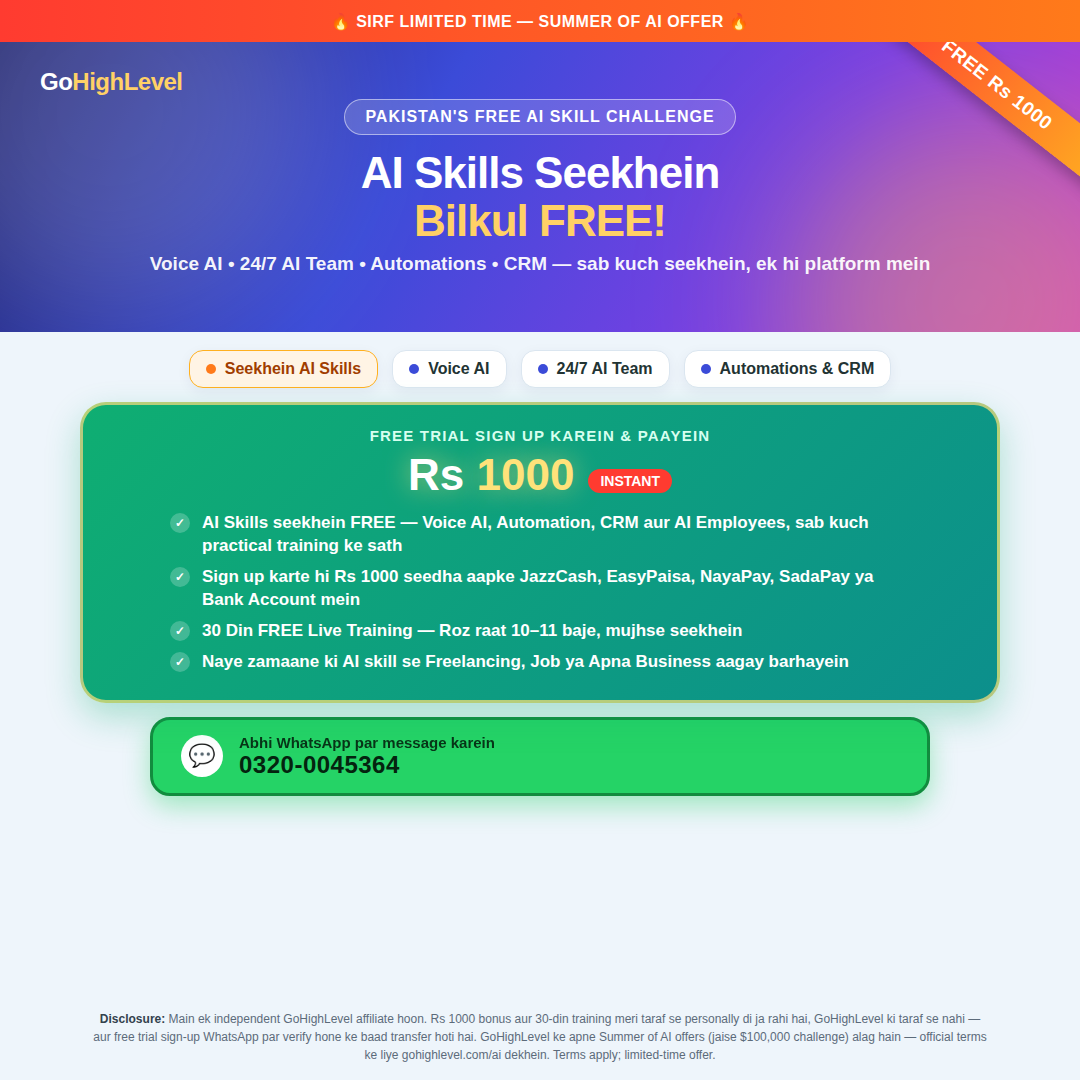
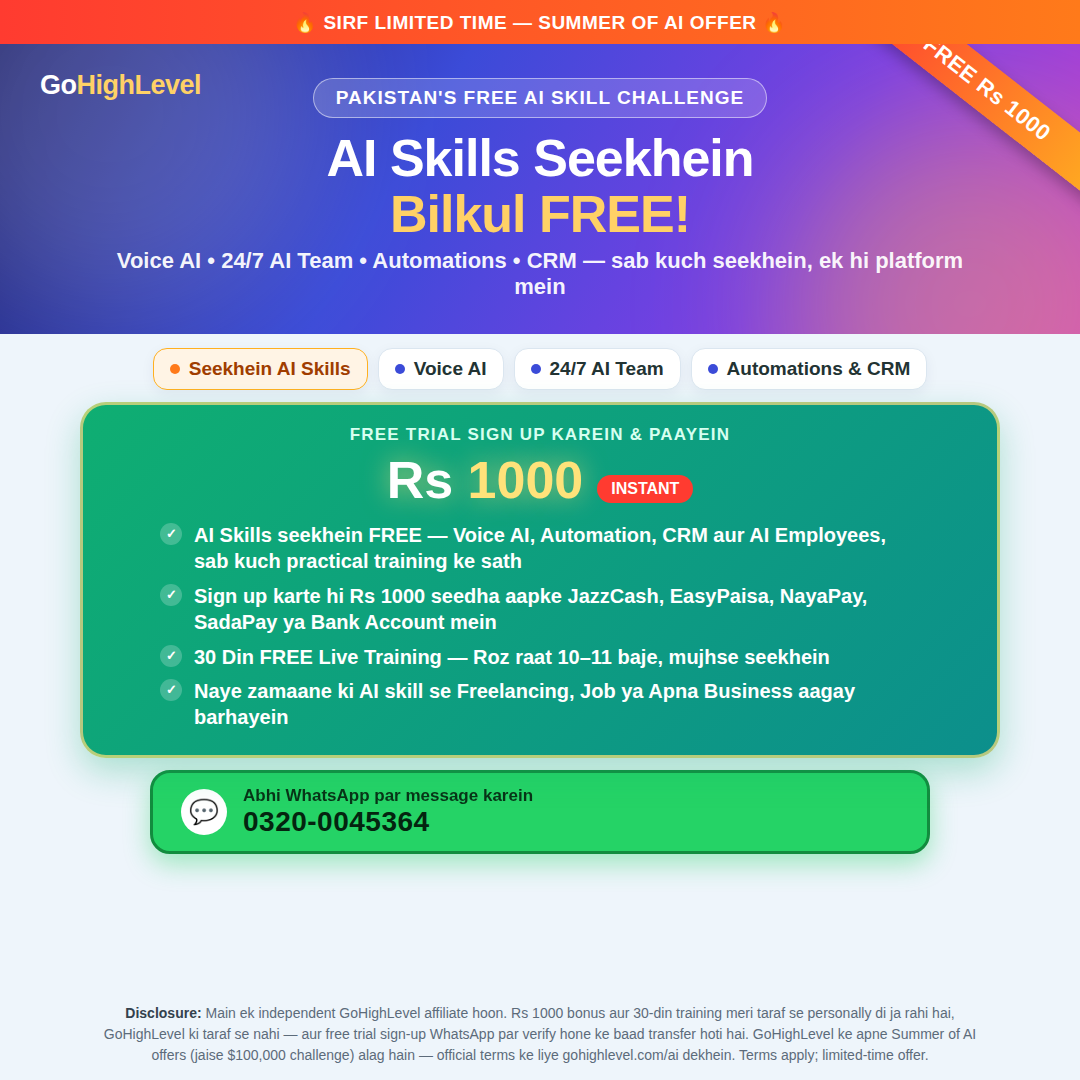
Increase text size across the Pakistan bold Summer of AI image ads
Bumped font sizes throughout (headline, offer amount, bullets, WhatsApp
CTA, disclosure) for better readability. Added a snug spacing mode for
the Instagram 4:5 format to keep everything fitting the frame at the
larger sizes.

diff --git a/ads-source/gohighlevel-summer-of-ai-bold-pk/template.js b/ads-source/gohighlevel-summer-of-ai-bold-pk/template.js
@@ -1,4 +1,4 @@
-function buildHtml({ width, height, heroHeight, compact, expanded }) {
+function buildHtml({ width, height, heroHeight, compact, expanded, snug }) {
   return `<!doctype html>
 <html>
 <head>
@@ -9,9 +9,9 @@ function buildHtml({ width, height, heroHeight, compact, expanded }) {
   body { background:#eef5fb; display:flex; flex-direction:column; }
 
   .urgbar {
-    flex:0 0 auto; width:100%; height:52px; background:linear-gradient(90deg,#ff3b30,#ff7a1a);
+    flex:0 0 auto; width:100%; height:56px; background:linear-gradient(90deg,#ff3b30,#ff7a1a);
     display:flex; align-items:center; justify-content:center; color:#fff;
-    font-size:20px; font-weight:800; letter-spacing:0.5px;
+    font-size:23px; font-weight:800; letter-spacing:0.5px;
   }
 
   .hero {
@@ -26,36 +26,36 @@ function buildHtml({ width, height, heroHeight, compact, expanded }) {
   .hero::before { width:420px; height:420px; background:rgba(255,255,255,0.18); top:-140px; left:-100px; }
   .hero::after { width:380px; height:380px; background:rgba(255,190,80,0.35); bottom:-160px; right:-80px; }
 
-  .brand { position:absolute; top:26px; left:40px; font-size:24px; font-weight:800; letter-spacing:-0.5px; z-index:3; }
+  .brand { position:absolute; top:26px; left:40px; font-size:27px; font-weight:800; letter-spacing:-0.5px; z-index:3; }
   .brand .go{ color:#fff; } .brand .hl{ color:#ffd166; }
 
   .ribbon {
     position:absolute; top:22px; right:-64px; z-index:3; transform:rotate(38deg);
-    background:linear-gradient(90deg,#ff3b30,#ffb020); color:#fff; font-weight:900; font-size:19px;
+    background:linear-gradient(90deg,#ff3b30,#ffb020); color:#fff; font-weight:900; font-size:22px;
     padding:10px 80px; box-shadow:0 6px 14px rgba(0,0,0,0.25); letter-spacing:0.5px;
   }
 
   .kicker {
     position:relative; z-index:2;
-    display:inline-block; padding:10px 26px; border-radius:999px;
+    display:inline-block; padding:11px 28px; border-radius:999px;
     background:rgba(255,255,255,0.16); border:1.5px solid rgba(255,255,255,0.5);
-    color:#fff; font-size:19px; font-weight:800; letter-spacing:1px; margin-bottom:20px;
+    color:#fff; font-size:22px; font-weight:800; letter-spacing:1px; margin-bottom:20px;
   }
   .hero h1 {
-    position:relative; z-index:2; font-size:58px; font-weight:900; line-height:1.1; letter-spacing:-1px; margin-bottom:12px;
+    position:relative; z-index:2; font-size:68px; font-weight:900; line-height:1.08; letter-spacing:-1px; margin-bottom:12px;
   }
   .hero h1 .accent { color:#ffd166; }
   .hero p.sub {
-    position:relative; z-index:2; font-size:25px; font-weight:600; color:rgba(255,255,255,0.95); max-width:860px;
+    position:relative; z-index:2; font-size:29px; font-weight:600; color:rgba(255,255,255,0.95); max-width:860px;
   }
 
   .body { flex:1 1 auto; display:flex; flex-direction:column; align-items:center; padding:32px 52px 28px; text-align:center; overflow:hidden; }
 
   .featrow { display:flex; gap:14px; justify-content:center; flex-wrap:wrap; margin-bottom:26px; }
   .featchip {
-    display:flex; align-items:center; gap:9px; padding:13px 20px; border-radius:14px;
+    display:flex; align-items:center; gap:9px; padding:14px 22px; border-radius:14px;
     background:#fff; border:1.5px solid #dbe6f0; box-shadow:0 4px 14px rgba(20,30,80,0.06);
-    font-size:19px; font-weight:800; color:#233;
+    font-size:22px; font-weight:800; color:#233;
   }
   .featchip .dot { width:10px; height:10px; border-radius:50%; background:#3b4bd8; }
   .featchip.hot { background:#fff4e5; border-color:#ffb020; color:#a03d00; }
@@ -67,72 +67,83 @@ function buildHtml({ width, height, heroHeight, compact, expanded }) {
     border-radius:26px; padding:32px 44px; color:#fff; margin-bottom:22px;
     box-shadow:0 14px 34px rgba(15,174,114,0.3); border:3px solid rgba(255,224,122,0.7);
   }
-  .offer-top { font-size:18px; font-weight:800; letter-spacing:1.2px; color:#d7fff0; margin-bottom:10px; }
+  .offer-top { font-size:21px; font-weight:800; letter-spacing:1.2px; color:#d7fff0; margin-bottom:10px; }
   .offer-amt-wrap { display:flex; align-items:baseline; justify-content:center; gap:14px; flex-wrap:wrap; margin-bottom:8px; }
   .offer-amt {
-    font-size:64px; font-weight:900; color:#fff;
+    font-size:74px; font-weight:900; color:#fff;
     text-shadow:0 0 26px rgba(255,224,122,0.65);
   }
   .offer-amt span{ color:#ffe27a; }
   .instant-tag {
-    display:inline-block; background:#ff3b30; color:#fff; font-weight:900; font-size:18px;
-    padding:6px 16px; border-radius:999px; transform:translateY(-4px);
+    display:inline-block; background:#ff3b30; color:#fff; font-weight:900; font-size:21px;
+    padding:7px 18px; border-radius:999px; transform:translateY(-4px);
   }
-  .offer-list { list-style:none; text-align:left; margin:16px auto 0; max-width:740px; }
-  .offer-list li { font-size:23px; font-weight:700; padding:7px 0 7px 40px; position:relative; line-height:1.35; }
-  .offer-list li::before { content:"✓"; position:absolute; left:0; top:7px; width:28px; height:28px; border-radius:50%; background:rgba(255,255,255,0.22); display:flex; align-items:center; justify-content:center; font-size:16px; font-weight:900; }
+  .offer-list { list-style:none; text-align:left; margin:16px auto 0; max-width:760px; }
+  .offer-list li { font-size:26px; font-weight:700; padding:7px 0 7px 42px; position:relative; line-height:1.32; }
+  .offer-list li::before { content:"✓"; position:absolute; left:0; top:8px; width:30px; height:30px; border-radius:50%; background:rgba(255,255,255,0.22); display:flex; align-items:center; justify-content:center; font-size:17px; font-weight:900; }
 
   .waCta {
     display:flex; align-items:center; gap:16px; background:#25D366; color:#04240f; border-radius:20px;
     padding:20px 38px; width:100%; max-width:780px; margin-bottom:16px; box-shadow:0 10px 26px rgba(37,211,102,0.4);
     border:3px solid #128c3e;
   }
-  .waCta .icon { width:54px; height:54px; border-radius:50%; background:#fff; display:flex; align-items:center; justify-content:center; font-size:28px; flex:0 0 auto; }
+  .waCta .icon { width:58px; height:58px; border-radius:50%; background:#fff; display:flex; align-items:center; justify-content:center; font-size:30px; flex:0 0 auto; }
   .waCta .txt { text-align:left; }
-  .waCta .txt .l1 { font-size:18px; font-weight:800; opacity:0.9; }
-  .waCta .txt .l2 { font-size:32px; font-weight:900; letter-spacing:0.5px; }
+  .waCta .txt .l1 { font-size:21px; font-weight:800; opacity:0.9; }
+  .waCta .txt .l2 { font-size:36px; font-weight:900; letter-spacing:0.5px; }
 
   .spacer { flex:1 1 auto; }
 
   .fine {
-    font-size:14px; color:#5c6b7a; line-height:1.5; max-width:900px; margin-top:auto;
+    font-size:16px; color:#5c6b7a; line-height:1.5; max-width:900px; margin-top:auto;
   }
   .fine b { color:#33414d; }
 
   ${compact ? `
-  .urgbar { font-size:16px; height:42px; }
-  .hero h1 { font-size:44px; margin-bottom:8px; }
-  .hero p.sub { font-size:19px; }
-  .kicker { margin-bottom:14px; padding:8px 20px; font-size:16px; }
-  .body { padding:18px 48px 16px; }
-  .featrow { margin-bottom:14px; }
-  .featchip { padding:9px 16px; font-size:16px; }
-  .offercard { padding:22px 32px; margin-bottom:14px; }
-  .offer-top { margin-bottom:6px; font-size:15px; }
-  .offer-amt { font-size:44px; }
-  .instant-tag { font-size:14px; padding:4px 12px; }
-  .offer-list { margin-top:8px; }
-  .offer-list li { font-size:17px; padding:4px 0 4px 32px; }
-  .offer-list li::before { width:20px; height:20px; font-size:12px; top:5px; }
-  .waCta { padding:14px 28px; margin-bottom:12px; }
-  .waCta .icon { width:42px; height:42px; font-size:22px; }
-  .waCta .txt .l1 { font-size:15px; }
-  .waCta .txt .l2 { font-size:24px; }
-  .fine { font-size:12px; }
+  .urgbar { font-size:19px; height:44px; }
+  .hero h1 { font-size:52px; margin-bottom:6px; }
+  .hero p.sub { font-size:22px; }
+  .kicker { margin-bottom:12px; padding:8px 22px; font-size:19px; }
+  .body { padding:14px 44px 14px; }
+  .featrow { margin-bottom:12px; gap:10px; }
+  .featchip { padding:9px 16px; font-size:19px; }
+  .offercard { padding:20px 32px; margin-bottom:12px; }
+  .offer-top { margin-bottom:5px; font-size:17px; }
+  .offer-amt { font-size:52px; }
+  .instant-tag { font-size:16px; padding:5px 14px; }
+  .offer-list { margin-top:6px; }
+  .offer-list li { font-size:20px; padding:4px 0 4px 34px; }
+  .offer-list li::before { width:22px; height:22px; font-size:13px; top:5px; }
+  .waCta { padding:13px 28px; margin-bottom:10px; }
+  .waCta .icon { width:46px; height:46px; font-size:24px; }
+  .waCta .txt .l1 { font-size:17px; }
+  .waCta .txt .l2 { font-size:28px; }
+  .fine { font-size:14px; }
   ` : ''}
 
   ${expanded ? `
-  .body { justify-content:space-between; padding-top:54px; padding-bottom:46px; }
+  .body { justify-content:space-between; padding-top:50px; padding-bottom:44px; }
   .spacer { display:none; }
   .fine { margin-top:0; }
-  .featchip { padding:17px 26px; font-size:22px; }
-  .offercard { padding:42px 50px; }
-  .offer-amt { font-size:72px; }
-  .offer-list li { font-size:25px; }
-  .waCta { padding:24px 42px; }
-  .waCta .icon { width:62px; height:62px; font-size:32px; }
-  .waCta .txt .l1 { font-size:20px; }
-  .waCta .txt .l2 { font-size:36px; }
+  .featchip { padding:19px 28px; font-size:25px; }
+  .offercard { padding:46px 54px; }
+  .offer-amt { font-size:82px; }
+  .offer-list li { font-size:28px; }
+  .waCta { padding:26px 44px; }
+  .waCta .icon { width:66px; height:66px; font-size:34px; }
+  .waCta .txt .l1 { font-size:23px; }
+  .waCta .txt .l2 { font-size:40px; }
+  ` : ''}
+
+  ${snug ? `
+  .body { padding:22px 52px 20px; }
+  .featrow { margin-bottom:18px; }
+  .offercard { padding:26px 44px; margin-bottom:16px; }
+  .offer-top { margin-bottom:6px; }
+  .offer-list { margin-top:10px; }
+  .offer-list li { padding:5px 0 5px 42px; line-height:1.24; }
+  .waCta { padding:16px 38px; margin-bottom:12px; }
+  .fine { font-size:14px; }
   ` : ''}
 </style>
 </head>

diff --git a/ads-source/gohighlevel-summer-of-ai-bold-pk/render.js b/ads-source/gohighlevel-summer-of-ai-bold-pk/render.js
@@ -8,7 +8,7 @@ const content = require('./content');
 
 const FORMATS = [
   { name: 'facebook_1080x1080', width: 1080, height: 1080, heroHeight: 290, compact: true },
-  { name: 'instagram_1080x1350', width: 1080, height: 1350, heroHeight: 440 },
+  { name: 'instagram_1080x1350', width: 1080, height: 1350, heroHeight: 400, snug: true },
   { name: 'whatsapp_status_1080x1920', width: 1080, height: 1920, heroHeight: 540, expanded: true },
 ];
 
